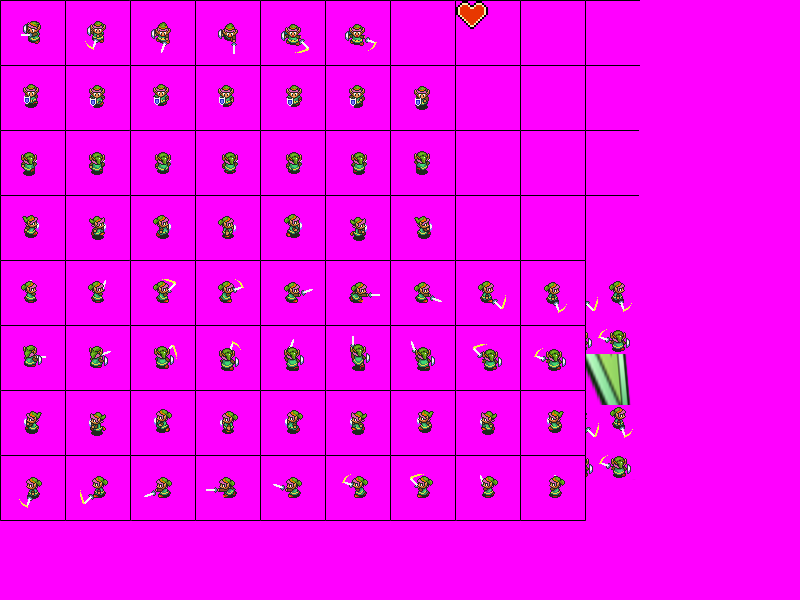
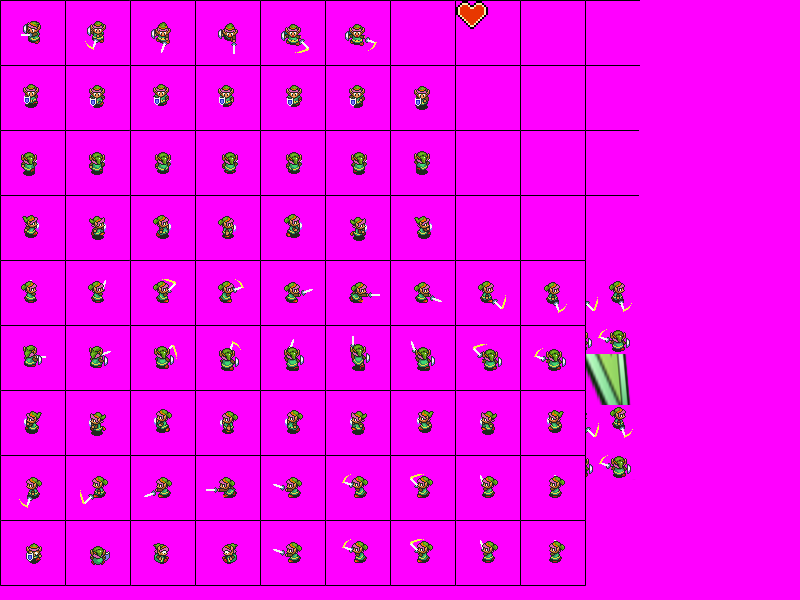
Animacio quan toquen al jugador (estat nou)

diff --git a/src/cPlayer.cpp b/src/cPlayer.cpp
@@ -8,6 +8,12 @@ cPlayer::cPlayer():
 	m_IdleStep = { 3 };
 	m_life_count = 5;
 	
+	m_hituporder = { 1 };
+	m_hitdownorder = { 0 };
+	m_hitrightorder = { 2 };
+	m_hitleftorder = { 3 };
+	LoadSteps(m_HitSteps, 0, 520, 4, 64, 64);
+
 
 	LoadSteps(m_DownSword, 0, 0, 6, 64, 64);
 	LoadSteps(m_UpSword, 0, 325, 6, 64, 64);
@@ -179,7 +185,34 @@ void cPlayer::SetTextureFromOrientation()
 		}
 			break;
 
+		case E_HITANIM:
+		{
+			SetAnimationRects(m_HitSteps);
+			switch (orient)
+			{
 
+			case ORIENTATION_N:
+			case ORIENTATION_NE:
+			case ORIENTATION_NO:
+				SetAnimationOrderSteps(m_hituporder);
+				break;
+			case ORIENTATION_S:
+			case ORIENTATION_SE:
+			case ORIENTATION_SO:
+				SetAnimationOrderSteps(m_hitdownorder);
+				break;
+			case ORIENTATION_E:
+				SetAnimationOrderSteps(m_hitrightorder);
+				break;
+			case ORIENTATION_O:
+				SetAnimationOrderSteps(m_hitleftorder);
+				break;
+			default:
+				break;
+			}
+			
+		}
+			break;
 		
 	
 	}
@@ -203,6 +236,12 @@ void cPlayer::ChangeToAttack()
 
 }
 
+void cPlayer::ChangeToHitAnim()
+{
+	m_state = E_HITANIM;
+	SetTextureFromOrientation();
+	time(&hitanimtime);
+}
 
 
 
@@ -239,7 +278,14 @@ void cPlayer::Update()
 		if (IsAnimationLoopFinished())
 			ChangeToIdle();
 		break;
-
+	case E_HITANIM:
+		{
+			if (time(NULL) >= hitanimtime + 0.2)
+			{
+				m_state = E_IDLE;
+			}
+		}
+		break;
 	}
 
 
@@ -254,6 +300,9 @@ void cPlayer::Update()
 	case E_ATTACKING:
 		UpdateAttack();
 		break;
+	case E_HITANIM:
+		UpdateHitAnim();
+		break;
 
 	}
 	
@@ -263,6 +312,11 @@ void cPlayer::Update()
 	cBaseEntity::Update();
 }
 
+void cPlayer::UpdateHitAnim()
+{
+
+}
+
 void cPlayer::UpdateAttack()
 {
 	
@@ -270,9 +324,9 @@ void cPlayer::UpdateAttack()
 	cScene *sc = cGame::Instance()->Scene;
 	
 	//Renderitzo el rectangle a Z+1 perque surti per sobre la textura sempre
-	int z;
-	GetZIndex(z);
-	cGame::Instance()->Graphics->DrawRect(m_attack_col_rect, 0x00FF00FF, z + 1);
+	//int z;
+	//GetZIndex(z);
+	//cGame::Instance()->Graphics->DrawRect(m_attack_col_rect, 0x00FF00FF, z + 1);
 	sc->UpdateEnemyHit(m_attack_col_rect);
 	/*{
 	int x, y, z;
@@ -429,10 +483,12 @@ void cPlayer::decrementLife()
 {
 	if (m_life_count > 0)
 	{
-		if (time(NULL) >= lifeTime + 1)
+		if (time(NULL) >= lifeTime + 1.1)
 		{
+
 			m_life_count--;
 			time(&lifeTime);
+			ChangeToHitAnim();
 		}
 	}
 }

diff --git a/src/cPlayer.h b/src/cPlayer.h
@@ -10,7 +10,8 @@ public:
 	{
 		E_IDLE = 0,
 		E_MOVE,
-		E_ATTACKING
+		E_ATTACKING,
+		E_HITANIM
 
 	};
 	cPlayer();
@@ -27,10 +28,12 @@ private:
 	void ChangeToIdle();
 	void ChangeToAttack();
 	void ChangeToMove();
+	void ChangeToHitAnim();
 
 	void UpdateIdle();
 	void UpdateAttack();
 	void UpdateMovement();
+	void UpdateHitAnim();
 	void MovePlayer(s32 xAmount, s32 yAmount);
 
 	std::vector<cRectangle> m_DownShield, m_UpShield, m_RightShield, m_LeftShield;
@@ -48,4 +51,7 @@ private:
 	// VIDA
 	int m_life_count;
 	void DrawLife();
+	std::vector<cRectangle> m_HitSteps;
+	std::vector<u32> m_hituporder, m_hitdownorder, m_hitrightorder, m_hitleftorder;
+	time_t hitanimtime;
 };

diff --git a/src/cCell.h b/src/cCell.h
@@ -31,8 +31,8 @@ public:
 		sCellInfo(const std::string& tileSet, const tFrameVec& frames, bool w = true, unsigned int d = 0, unsigned int cz = 1) : tileSet(tileSet), frameVec(frames), walkable(w), duration(d), z(cz) { }
 	};
 
-	static const unsigned int tileWidth = 32;
-	static const unsigned int tileHeight = 32;
+	static const int tileWidth = 32;
+	static const int tileHeight = 32;
 
 	cCell(unsigned int _row, unsigned int _col, const sCellInfo& _cellInfo);
 	~cCell();
